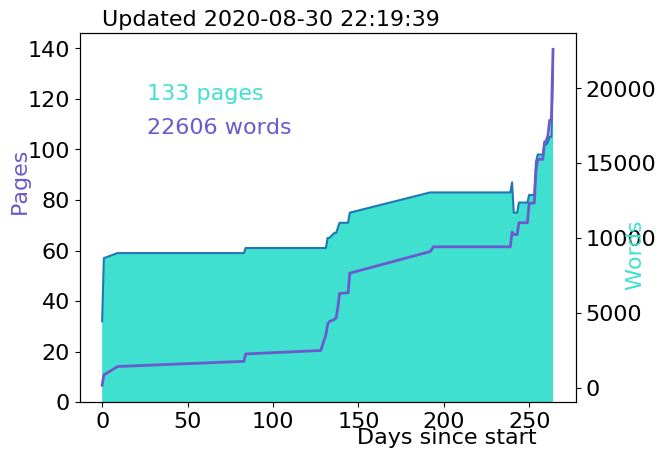
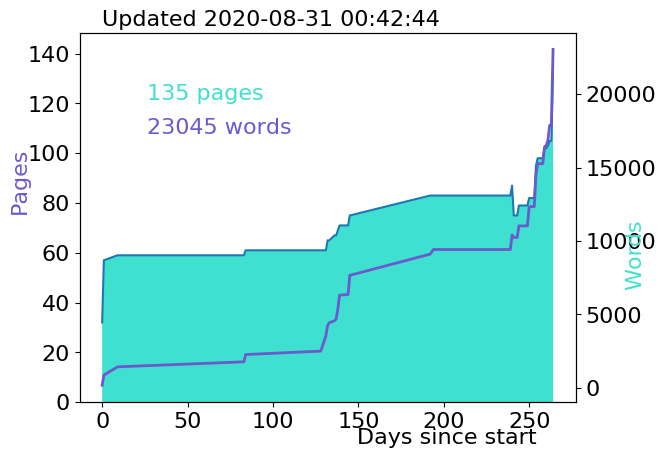
finished analysis section?? needs edits, theory to go

diff --git a/Chapters/Backgrounds.tex b/Chapters/Backgrounds.tex
@@ -322,7 +322,7 @@ SR        & 0.11 & 0.20  & 0.10  & --   & --   \\
 
 \subsection{\label{sec:cos_syst}Systematic Uncertainties}
 
-\subsubsection{Muon Orientation}
+\paragraph{Muon Orientation}
 
 The estimate is performed using the quality of \mt since muons in the upper hemisphere are expected to be more temporally marginal and mismeasured. However, the strategy can be formed with the quality of \mb. Because poor quality \mb are more rare than poor quality \mt, it is not possible to compare this strategy in the SR estimate, which is already statistically limited. However, the comparison can be made in the VR. As shown in \autoref{tab:syst-orientation}, this change produces an estimate that is consistent with the nominal estimate within statistical uncertainties. Nonetheless, a 13\% systematic uncertainty is applied from the difference between the two predictions.
 
@@ -342,7 +342,7 @@ central value  & up error & down error & actual value & \% diff from actual & \%
 \end{table}
 
 
-\subsubsection{Quality parameter dependence}
+\paragraph{Quality parameter dependence}
 
 Here, a ``bad'' quality muon means one that fails any one of the \nprecision or the \nphi or the \chiCB cut. To evaluate the dependence one each variable, the estimate can be performed using only one of these to define a ``bad'' quality muon, requiring the others to pass the signal requirements. However, \chiCB is dependent on the MS track hit requirements and has a small contribution to the estimate regions on its own. Only inverting only \chiCB leaves 11 events in each Region 6 and Region 8 and 0 in Region 2 and Region 4. Thus, we account for the \chiCB contribution by remaining agnostic to it in performing the estimate with the other two quality variables.  Allowing for the failure of the \chiCB cut increases the \nprecision-only and \nphi-only estimates by 2\% and 1\%, respectively. \autoref{tab:estimate_variables_VR} and \autoref{tab:estimate_variables_SR} show the results of this procedure in the VR and SR, respectively. We take the largest difference from the nominal estimate in the VR (16.5\%) to account for the quality variable dependence. 
 
@@ -350,7 +350,6 @@ Here, a ``bad'' quality muon means one that fails any one of the \nprecision or 
 \centering
 \small
 \begin{tabular}{cccccccc}
-\hline
 Variable & central value  & up error & down error &  actual value & \% diff from actual & \% diff from nominal\\
 \hline
 \nphi          & 783.6 & 69.2 & 68.1 & 1088 & 38.8\% & 0.9\% \\
@@ -365,7 +364,6 @@ Variable & central value  & up error & down error &  actual value & \% diff from
 \begin{table}
 \centering
 \begin{tabular}{cccccc}
-\hline
 Variable & central value  & up error & down error & \% diff from nominal\\
 \hline
 \nphi          & 0 & -- & -- & 100\% \\
@@ -385,7 +383,11 @@ This estimate is dominated by statistical uncertainties in the SR estimation reg
 \section{Background to SR-$ee$}
 
 \subsection{Fakes and Heavy Flavor Decays}
-\todo{need to decide how to do the explanation here}
+
+The primary background to SR-$ee$ is algorithmic fakes from the misassociation of a fake \ac{LRT} track with a real energy deposit in the \ac{EM} calorimeter (such as a photon); there is a secondary contribution from electrons from \ac{HF} decays. \ac{MC} samples of \ttbar along with photon dominated sample (described in \autoref{sec:mc}) were used to study the relative contributions. The \ttbar provides a good sample of \ac{HF} decays (though not the dominant source of \ac{HF} decays at the \ac{LHC}), yet after all of the signal requirements, the remaining high \absdz electron was the result of a photon combined with an \ac{ID} track. That this sample has many more b-jet decays than photons, yet the photons contribute a larger background even in this narrow region of phase space, indicates that algorithmic fakes will be the larger contributer of background events to SR-$ee$. Additionally, in direct studies in background \ac{MC}, such as \bbmm (at truth level, the electron and muon kinematics are the same), $Z\rightarrow \tau\tau$ (where the Z bosons decay to electrons), and \ttbar, all show exponentially falling distributions with no two lepton events that pass the \pt and \absdz cuts in the \ac{SR}, as designed. 
+
+Further studies were performed in data, with one baseline electron passing the filter requirements and another anti-isolated lepton with no \absdz cut made. A lepton is \emph{anti-isolated} if it fails the isolation requirement made on signal leptons, meaning that there is substantial energy surrounding the lepton in the calorimeter and/or the tracker, likely inside of a jet. It was shown that while the \dpt cut is designed to remove algorithmic fakes, it is a very effective remover of anti-isolated electrons as well. Clusters associated to electrons reconstructed inside of jets are likely to have additional energy added to their clusters, increasing the cluster \pt and decreasing the \dpt. Thus, it is not possible to disentangle heavy flavor electrons from fake electrons, and the fake electrons make the dominant contribution to the background to SR-$ee$.
+
 
 \subsection{Background Estimate}
 Fake electrons are the dominant background to SR-$ee$ and since they are a failure of an algorithm, the two fake electrons should be uncorrelated. This assumption is used to estimate the background using an \emph{ABCD method}. The ABCD method relies divides events into four regions, shown in \autoref{fig:abcd}. The number of events in regions B, C, and D are combined to estimate the number of events in region A, the signal region:
@@ -465,7 +467,7 @@ A Estimate 								& $< 0.012 \pm 0.017$ 	& $< 0.007 \pm 0.010$ 	& $0.007^{+0.01
 \end{center}
 \end{table}
 
-\subsubsection{Validation and Systematic Uncertainties}
+\subsection{Validation and Systematic Uncertainties}
 
 As in the case of SR-$ee$, validations are performed enhancing the fake or \ac{HF} contributions. VR-$e\mu$-fake again inverts the most powerful fake discriminators, \dpt for electrons and \chiCB for muons with the loosened \pt and \absdz cuts. In this region, 2 events are observed in the A region compared to $1.9^{+1.8}_{-1.0}$. While these agree within the very large uncertainties, a 7.8\% nonclosure systematic uncertainty is taken from the difference in central values. 
 
@@ -482,7 +484,7 @@ Since this analysis is built on the assumption that there should be 0 background
 
 \subsection{Material Interactions}
 
-Material interactions define events with dilepton pairs that come from interaction with the material of the \ac{ATLAS} detector. In several other searches for long lived particles in \ac{ATLAS}, displaced vertices (\acp{DV}) are required. \ac{DV}s are reconstructed by extrapolating their tracks to their intersection, and in these analyses vertices in the detector material can be vetoed. In this analysis, there is no vertex so such a veto cannot be used. In order to study material interactions, events with leptons associated to displaced vertices from material were studied. It was found that in the cases of both electrons and muons, events with an \ac{DV}, where one track is associated to a lepton, the \dR between the lepton and the other track in the \ac{DV} was less than 0.2. After making the requirement that $\dR_{\ell, \text{track}} < 0.2$, no \acp{DV} with signal leptons were found. In the case of the background to one of the \acp{SR}, the second track in the \ac{DV} would be associated to a lepton. After this cut is made, this background is negligible to all 3 \ac{SR}.
+Material interactions define events with dilepton pairs that come from interaction with the material of the \ac{ATLAS} detector. In other searches for long lived particles in \ac{ATLAS} where displaced vertices (\acp{DV}) are required, \ac{DV}s are reconstructed by extrapolating their tracks to their intersection, and it can be determined if verticies originate from material. In this analysis, there is no vertex so such a veto cannot be used. In order to study material interactions, events with leptons associated to displaced vertices from material were studied. It was found that in the cases of both electrons and muons, events with an \ac{DV}, where one track is associated to a lepton, the \dR between the lepton and the other track in the \ac{DV} was less than 0.2. After making the requirement that $\dR_{\ell, \text{track}} < 0.2$, no \acp{DV} with signal leptons were found. In the case of the background to one of the \acp{SR}, the second track in the \ac{DV} would be associated to a lepton. After this cut is made, this background is negligible to all 3 \ac{SR}.
 
 \subsection{Fake Muons}
 Fake muons were estimated using an ABCD method similar to SR-$ee$ and SR-$e\mu$. Muons were selected using the baseline requirements, plus asking that be isolated, and not cosmic tagged. All remaining cuts used for defining signal muons were used to define ``passing'' muons. Using this strategy, only 6 events were seen in the D region, and 0 in either B or C. In the SR-$e\mu $fake estimate, the ratio of passing to failing muons is less than 1\%. Given this, the probability for two fake muons to pass our selections should be less than 0.01\%, making this background negligible ($<0.0006$ events) and we consider it to be negligible relative to cosmic muons.

diff --git a/Chapters/EventReconstruction.tex b/Chapters/EventReconstruction.tex
@@ -239,7 +239,10 @@ After these modifications, we introduce many fake electrons, primarily resulting
 \label{fig:cust_elec_eff}
 \end{figure}
 
+\section{Overlap Removal}
+Each of the reconstruction chains described above, as well as those to reconstruction $\tau$ leptons, jets, and other physics objects used in \ac{ATLAS}, are run simultaneously. This means that the same track or cluster can be used to reconstruct two different types of physics objects. An iterative process of \ac{OR} is used to remove such artifacts. Overlap removal is performed on baseline objects, further described in \autoref{chap:event-selection}, which only pass identification and a loose \pt cut. 
 
+Electrons $\dR < 0.01$ from a muon are removed to suppress contributions from muon bremsstrahlung radiation. Then, any baseline jet residing within $\Delta R < 0.2$ of a baseline electron is removed.  Baseline electrons with $E_{T}<50$~\GeV\ ($E_{T}>50$~\GeV) within $\Delta R < 0.4$ ($\Delta R < \mathrm{min}(0.4,0.04+10$~\GeV$/\pt)$) of any remaining jet are removed. The overlap removal procedure between muon and jet candidates is designed to remove muons that may originate from the decay of hadrons, with the overlapping jet being retained. Nearby jets may also occur as a result of high-\pt\ bremsstrahlung, in which case the jet should be removed and the muon retained. Such jets are removed if they reside within $\Delta R < 0.2$ of a baseline muon and have less than three matched inner detector tracks. Muons are removed if they reside within either $\Delta R < 0.4$ or $\Delta R < \mathrm{min}(0.4,0.04+10$~\GeV$/\pt)$ of any remaining jet, following the same \pt-dependent criteria as outlined for electrons above.
 
 
 \section{Isolation}
@@ -271,9 +274,6 @@ Variable & Electron Cut & Muon Cut  \\
 
 
 
-\section{Overlap Removal}
-Each of the reconstruction chains described above, as well as those to reconstruction $\tau$ leptons, jets, and other physics objects used in \ac{ATLAS}, are run simultaneously. This means that the same track or cluster can be used to reconstruct two different types of physics objects. An iterative process of \ac{OR} is used to remove such artifacts. Overlap removal is performed on baseline objects, further described in \autoref{chap:event-selection}, which only pass identification and a loose \pt cut. 
 
-Electrons $\dR < 0.01$ from a muon are removed to suppress contributions from muon bremsstrahlung radiation. Then, any baseline jet residing within $\Delta R < 0.2$ of a baseline electron is removed.  Baseline electrons with $E_{T}<50$~\GeV\ ($E_{T}>50$~\GeV) within $\Delta R < 0.4$ ($\Delta R < \mathrm{min}(0.4,0.04+10$~\GeV$/\pt)$) of any remaining jet are removed. The overlap removal procedure between muon and jet candidates is designed to remove muons that may originate from the decay of hadrons, with the overlapping jet being retained. Nearby jets may also occur as a result of high-\pt\ bremsstrahlung, in which case the jet should be removed and the muon retained. Such jets are removed if they reside within $\Delta R < 0.2$ of a baseline muon and have less than three matched inner detector tracks. Muons are removed if they reside within either $\Delta R < 0.4$ or $\Delta R < \mathrm{min}(0.4,0.04+10$~\GeV$/\pt)$ of any remaining jet, following the same \pt-dependent criteria as outlined for electrons above.
 
 

diff --git a/Chapters/DataMC.tex b/Chapters/DataMC.tex
@@ -51,7 +51,7 @@ Di-Electron/Photon                & $e$      & $> 60$                  & $<2.5$ 
 
 If an event is selected by a filter, it is saved in its \texttt{RAW}, or detector-level, format in a \texttt{DRAW\_RPVLL} dataset. This \texttt{DRAW\_RPVLL} dataset then undergoes the full reconstruction chain, this time including \ac{LRT} during track reconstruction, and is saved in the same \texttt{xAOD} format as the standard \ac{ATLAS} datasets, now called \texttt{DAOD\_RPVLL}. These datasets are further processed into \texttt{DAOD\_SUSY15} derivations, which reduce the size of the dataset by making additional selections on the physics objects which now have the special reconstruction. Finally, the \texttt{DAOD\_SUSY15} derivations are processed by analysis-specific code into flat n-tuples that can be easily used for studies and background estimates. 
 
-\section{Monte Carlo}
+\section{\label{sec:mc}Monte Carlo}
 
 \ac{MC} generation is the process by which a physical model is simulated. It allows analyzers to understand how a specific physical process would appear in the \ac{ATLAS} detector. For this analysis, Monte Carlo samples are generated for various masses and lifetimes of theoretical sleptons, so that event selection can be optimized for the widest sensitivity. MC generation is done by breaking up the process of particle production, decay, and interaction with the detector into many steps. 
 
@@ -108,8 +108,6 @@ In this analysis, \ac{MC} samples are produced for a range of possible mass and 
 \label{tab:dsid_stau}
 \end{center}
 \end{table}
-
-
 
 
 In addition to the signal \ac{MC} samples, several background \ac{MC} samples are used. However, these have limited use in this analysis since the major backgrounds are not well modeled by \ac{MC}. These include \ttbar sample, simulating the production and semi-leptonic decay of two top quarks $pp\rightarrow \ttbar$; a \bbmm sample, simulating the production and leptonic decay of two bottom quarks $pp\rightarrow \ttbar \rightarrow \mu\mu$; and a sample of photons produced by the process $pp \rightarrow q \gamma$. 

diff --git a/scripts/pages.md b/scripts/pages.md
@@ -410,3 +410,10 @@
 + [2020-08-30-20h50m29s] 132 22200
 + [2020-08-30-21h56m05s] 132 22338
 + [2020-08-30-22h19m39s] 133 22606
++ [2020-08-31-00h11m03s] 134 22737
++ [2020-08-31-00h11m24s] 134 22737
++ [2020-08-31-00h14m30s] 134 22737
++ [2020-08-31-00h15m01s] 134 22737
++ [2020-08-31-00h15m57s] 134 22737
++ [2020-08-31-00h17m27s] 134 22737
++ [2020-08-31-00h42m44s] 135 23045
